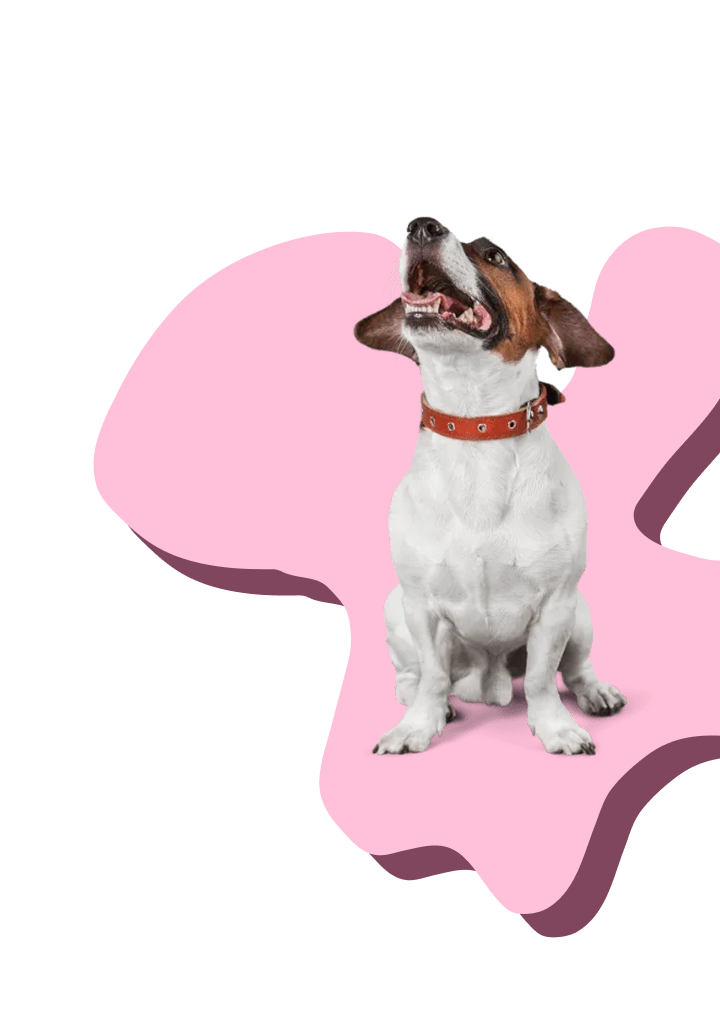
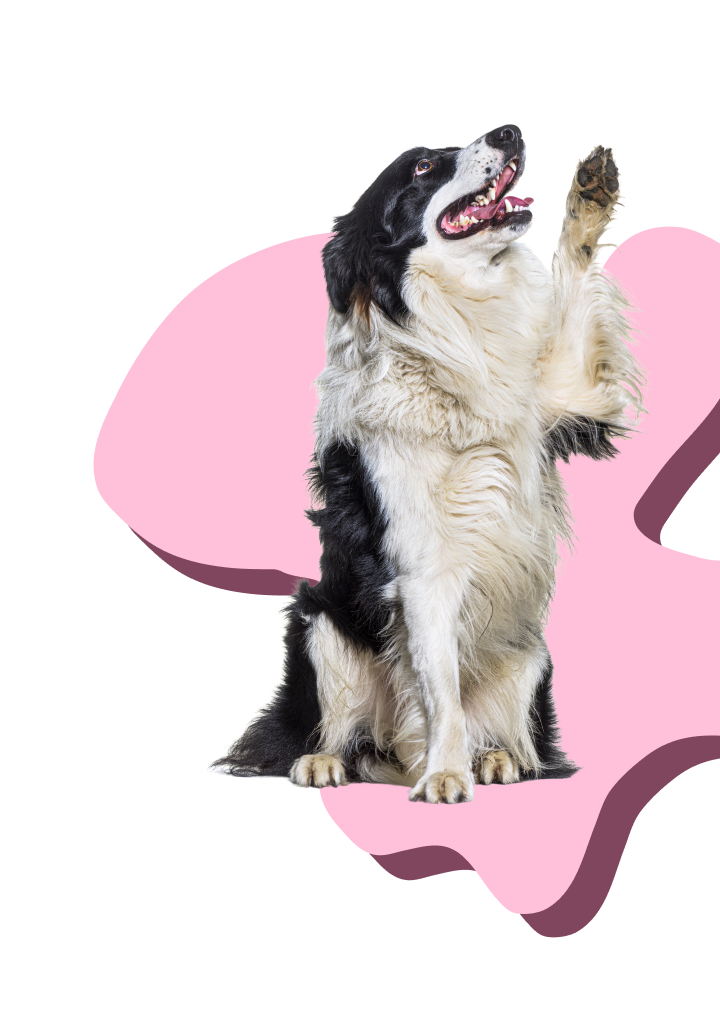
Ajustes na tela de index

Changed region(s): [[0.3056, 0.1244, 0.9167, 0.8086]]

diff --git a/app-petinder/src/pages/index/index.module.css b/app-petinder/src/pages/index/index.module.css
@@ -61,7 +61,7 @@ body {
 .firstImage {
     position: absolute;
     right: 0;
-    top: 60%;
+    top: 70%;
     transform: translateY(-50%);
     max-width: 50%;
     height: auto;
@@ -82,7 +82,7 @@ body {
     display: flex;
     align-items: center;
     justify-content: space-between;
-    gap: 12rem;
+    /* gap: 12rem; */
     justify-content: space-between;
 }
 
@@ -90,10 +90,7 @@ body {
     position: absolute;
     left: 0;
     top: 160%;
-    transform: translateY(-50%);
-    max-width: 50%;
-    height: auto;
-    z-index: 1;
+    transform: translateY(-49%);
 }
 
 .paws{

diff --git a/app-petinder/src/components/components.css b/app-petinder/src/components/components.css
@@ -196,7 +196,7 @@
 .footer {
     background-color: var(--secondaryColor);
     height: 350px;
-    width: 100%;
+    width: 102%;
     position: absolute;
     top: 219%;
     padding: 100px;
